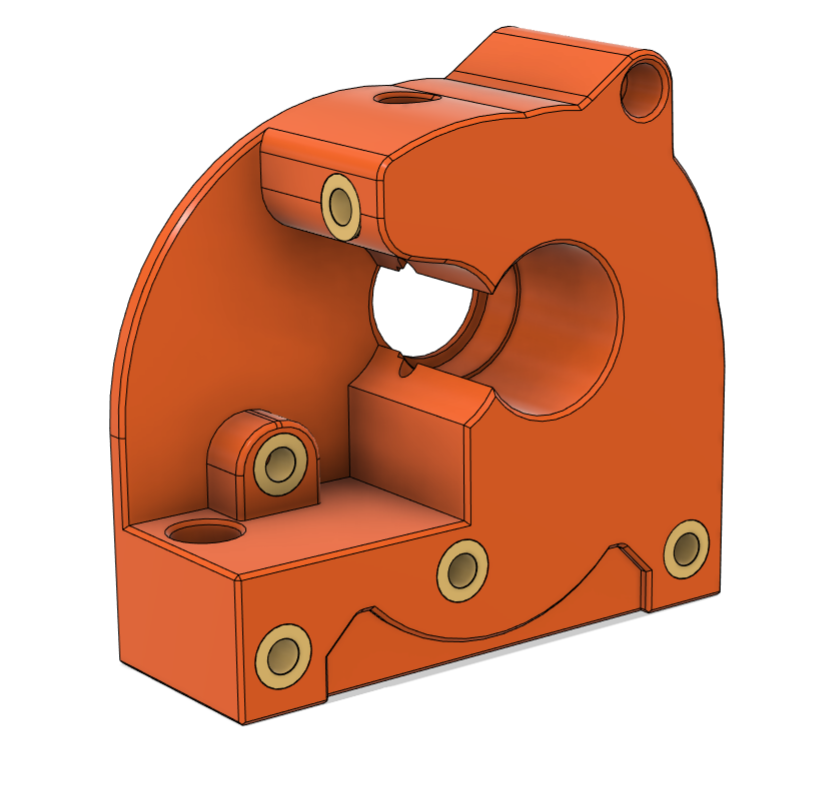
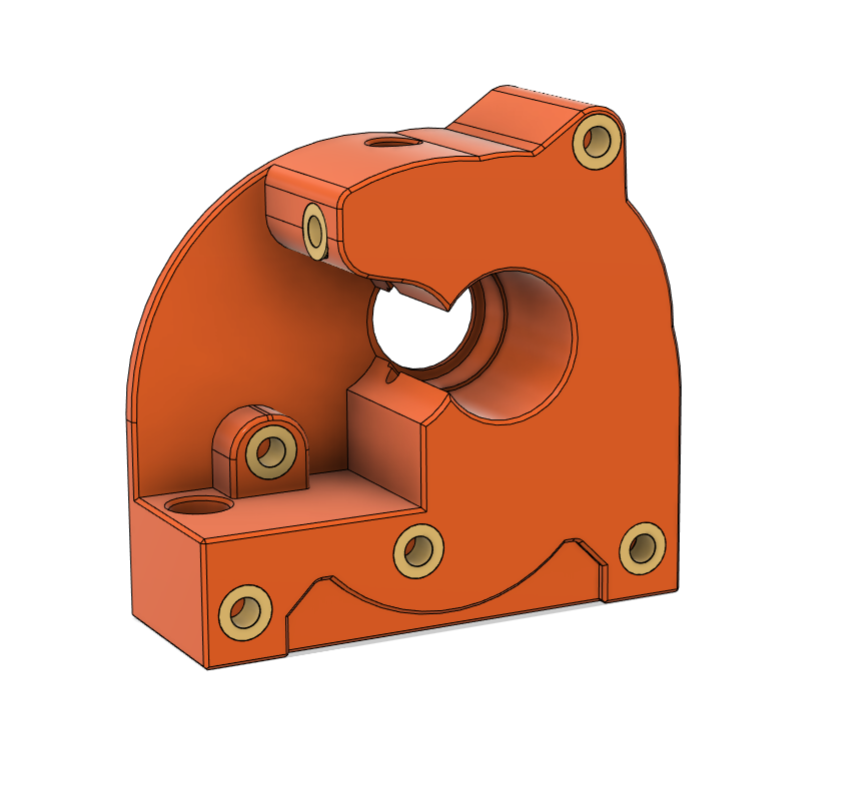
roundohouse

diff --git a/general/RoundOHouse/README.md b/general/RoundOHouse/README.md
@@ -16,9 +16,7 @@ Please Note: This is a Work In Progress and things will likely change as issues 
 
 ## BOM:
 
-- 4x M3x6 or 8mm SHCS/BHCS (for securing the front to the back of the extruder)
-- 1x M3x25mm  SHCS/BHCS (for the lever pivot)
-- 5x Brass heat inserts (4 for the mount, 1 for the lever)
+- 8x Brass heat inserts (6 for the front, 2 for the support ring)
 - 1x Orbiter v2 Extruder
 - 1x NEMA14 36mm pancake Motor with 10 tooth gear
 - 1x UM2 Collet (optional)
